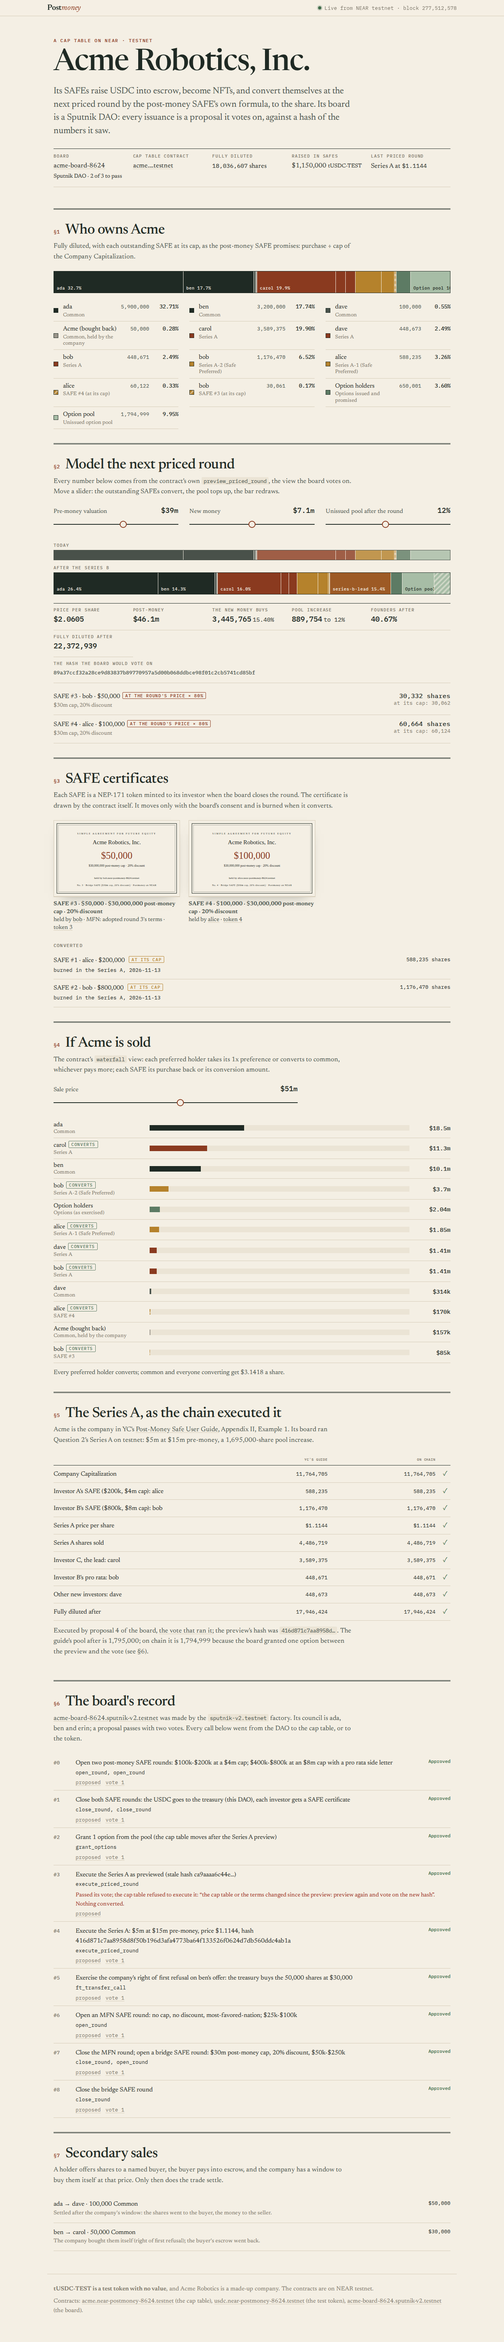
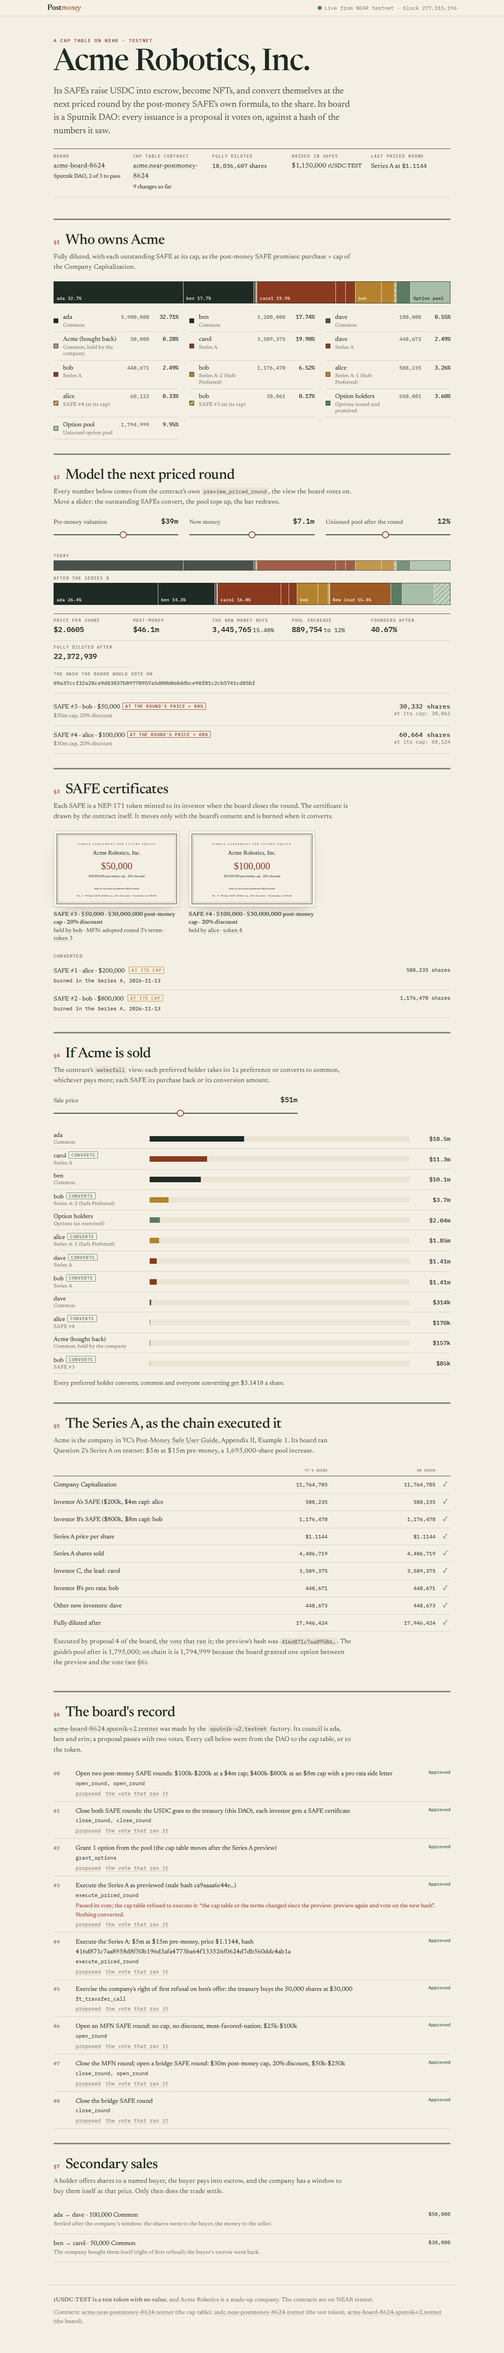
README: judge table as measured (8 checks, 137 s), code replacements on testnet; build-wasm uses host cargo-near when present

diff --git a/web/dist/assets/index-DIPlPk5L.js b/web/dist/assets/index-DIPlPk5L.js
@@ -1,0 +1,1 @@
+(function(){let e=document.createElement(`link`).relList;if(e&&e.supports&&e.supports(`modulepreload`))return;for(let e of document.querySelectorAll(`link[rel="modulepreload"]`))n(e);new MutationObserver(e=>{for(let t of e)if(t.type===`childList`)for(let e of t.addedNodes)e.tagName===`LINK`&&e.rel===`modulepreload`&&n(e)}).observe(document,{childList:!0,subtree:!0});function t(e){let t={};return e.integrity&&(t.integrity=e.integrity),e.referrerPolicy&&(t.referrerPolicy=e.referrerPolicy),t.credentials=e.crossOrigin===`use-credentials`?`include`:e.crossOrigin===`anonymous`?`omit`:`same-origin`,t}function n(e){if(e.ep)return;e.ep=!0;let n=t(e);fetch(e.href,n)}})();var e=class extends Error{},t=10000n,n=(e,t)=>{for(e=e<0n?-e:e,t=t<0n?-t:t;t;)[e,t]=[t,e%t];return e},r=(t,r=1n)=>{if(r===0n)throw new e(`division by zero`);r<0n&&([t,r]=[-t,-r]);let i=n(t,r)||1n;return{n:t/i,d:r/i}},i=(e,t)=>r(e.n*t.d+t.n*e.d,e.d*t.d),a=(e,t)=>r(e.n*t.d-t.n*e.d,e.d*t.d),o=(e,t)=>r(e.n*t.n,e.d*t.d),s=(e,t)=>r(e.n*t.d,e.d*t.n),c=(e,t)=>{let n=e.n*t.d-t.n*e.d;return n>0n?1:n<0n?-1:0},l=e=>e.n>=0n?e.n/e.d:-((-e.n+e.d-1n)/e.d),u=e=>-l(r(-e.n,e.d)),d=r(0n),f=r(1n);function*p(e){for(let t=0;t<1<<e;t++)yield Array.from({length:e},(e,n)=>(t>>n&1)==1)}var m=(e,t)=>l(i(s(e,r(t)),r(1n,2n)))*t;function h(n,a,o){if(o.price_decimals<0||o.price_decimals>6)throw new e(`price_decimals must be 0 to 6`);if(o.pre_money<=0n)throw new e(`pre-money valuation must be positive`);if(!o.new_money.length||o.new_money.some(e=>e<=0n))throw new e(`a priced round needs new money`);if(`target_bps`in o.pool&&BigInt(o.pool.target_bps)>=t)throw new e(`pool target must be under 100%`);for(let n of a)if(n.purchase<=0n||n.cap!==null&&n.cap<=0n||BigInt(n.discount_bps)>=t)throw new e(`bad SAFE`);if(c(a.filter(e=>e.cap!==null).reduce((e,t)=>i(e,r(t.purchase,t.cap)),d),f)>=0)throw new e(`SAFEs at their caps would own 100% or more`);let s=n.outstanding+n.options+n.pool;if(s===0n||s===n.pool)throw new e(`no shares outstanding`);return s}function g(n,l,u,m){let h=r(m.pre_money),g=r(m.pre_money+m.new_money.reduce((e,t)=>e+t,0n)),_=[];for(let e of p(u.length)){if(u.some((t,n)=>t.cap===null&&!e[n]))continue;let p=d,v=d;u.forEach((n,a)=>{e[a]?v=i(v,r(n.purchase*t,t-BigInt(n.discount_bps))):p=i(p,r(n.purchase,n.cap))});let y=e=>{let[i,c,u]=[a(f,p),r(-v.n,v.d),r(n)],[d,m,_]=`increase`in e?[f,r(-h.n,h.d),r(-e.increase)]:[f,a(o(r(BigInt(e.target_bps),t),g),h),r(l.pool)],y=a(o(i,m),o(d,c));return y.n===0n?null:{K:s(a(o(u,m),o(_,c)),y),y:s(a(o(i,_),o(d,u)),y)}},b=y(m.pool);if(b&&`target_bps`in m.pool&&c(b.y,d)>0&&c(a(o(o(r(BigInt(m.pool.target_bps),t),g),b.y),r(l.pool)),d)<0&&(b=y({increase:0n})),!b||c(b.y,d)<=0)continue;let{K:x,y:S}=b;u.every((n,i)=>{if(n.cap===null)return!0;let a=o(x,r(n.purchase,n.cap)),s=o(S,r(n.purchase*t,t-BigInt(n.discount_bps)));return e[i]?c(s,a)>0:c(a,s)>=0})&&_.push(s(f,S))}if(!_.length)throw new e(`pre-money too low to convert these SAFEs`);if(_.some(e=>c(e,_[0])!==0))throw new e(`ambiguous: several exact solutions`);return _[0]}function _(n,o,c){let u=o.map(e=>e.purchase*t/(c*(t-BigInt(e.discount_bps)))),m=[];for(let e of p(o.length)){if(o.some((t,n)=>t.cap===null&&!e[n]))continue;let t=n,c=d;o.forEach((n,a)=>{e[a]?t+=u[a]:c=i(c,r(n.purchase,n.cap))});let p=l(s(r(t),a(f,c))),h=[],g=!0;o.forEach((t,n)=>{let r=t.cap===null?0n:p*t.purchase/t.cap;e[n]?(t.cap!==null&&!(u[n]>r)&&(g=!1),h.push({shares:u[n],basis:`price`,other_basis_shares:r})):(r<u[n]&&(g=!1),h.push({shares:r,basis:`cap`,other_basis_shares:u[n]}))}),g&&m.push({K:p,rows:h})}if(!m.length)throw new e(`no consistent conversion at this price`);if(m.length>1)throw new e(`ambiguous: several consistent conversions at this price`);return{...m[0],total:m[0].rows.reduce((e,t)=>e+t.shares,0n)}}function v(n,i,l){let p=h(n,i,l),v=g(p,n,i,l),y=m(v,10n**BigInt(6-l.price_decimals));if(y<=0n)throw new e(`price rounds to zero`);let{K:b,rows:x,total:S}=_(p,i,y),C=l.new_money.reduce((e,t)=>e+t,0n)/y,w=l.new_money.map(e=>e/y);w[w.length-1]=C-w.slice(0,-1).reduce((e,t)=>e+t,0n);let T;if(`increase`in l.pool)T=l.pool.increase;else{let e=r(BigInt(l.pool.target_bps),t),i=s(a(o(e,r(p+S+C)),r(n.pool)),a(f,e));T=c(i,d)>0?u(i):0n}let E=p+S+T;return{price:y,exact_price:v,company_capitalization:b,safes:x,safe_shares:S,pool_increase:T,pool_after:n.pool+T,new_shares:w,new_shares_total:C,pre_money_shares:E,post_money_shares:E+C}}function y(e,t,n,o){let c=t,u=d,p=0n;n.forEach((e,t)=>{`preferred`in e?o[t]?c+=e.preferred.shares:p+=e.preferred.preference:o[t]?u=i(u,r(e.safe.purchase,e.safe.cap)):p+=e.safe.purchase});let m=l(s(r(c),a(f,u))),h=n.map((e,t)=>o[t]?`preferred`in e?e.preferred.shares:m*e.safe.purchase/e.safe.cap:0n),g=t+h.reduce((e,t)=>e+t,0n),_=e=>`preferred`in e?e.preferred.preference:e.safe.purchase;if(e<=p)return{shares:h,total:g,pay:n.map((t,n)=>o[n]?0n:e*_(t)/p),common_pay:0n};let v=e-p;return{shares:h,total:g,pay:n.map((e,t)=>o[t]?v*h[t]/g:_(e)),common_pay:v*t/g}}function b(t,n,r){let i=e=>`preferred`in e||e.safe.cap!==null,a=[];for(let e of p(r.length))r.some((t,n)=>e[n]&&!i(t))||r.every((a,o)=>{if(!i(a))return!0;let s=y(t,n,r,e.map((e,t)=>t===o||e)).pay[o],c=y(t,n,r,e.map((e,t)=>t!==o&&e)).pay[o];return e[o]===s>c})&&a.push(e);if(a.length!==1)throw new e(a.length?`ambiguous: several equilibria`:`no equilibrium`);let o=y(t,n,r,a[0]);return{claims:r.map((e,t)=>({converts:a[0][t],shares:o.shares[t],payout:o.pay[t]})),common_payout:o.common_pay,as_converted_shares:o.total}}var x=`acme.near-postmoney-8624.testnet`,S=`acme-board-8624.sputnik-v2.testnet`,C=`usdc.near-postmoney-8624.testnet`,w=`https://testnet.nearblocks.io`,T=[`https://test.rpc.fastnear.com`,`https://near-testnet.drpc.org`],E=0;function ee(e){return btoa(String.fromCharCode(...new TextEncoder().encode(e)))}var D=class extends Error{};async function O(e,t,n={},r=8e3){let i;for(let a=0;a<T.length*2;a++){let o=T[(E+a)%T.length];try{let i=await fetch(o,{method:`POST`,headers:{"Content-Type":`application/json`},signal:AbortSignal.timeout(r),body:JSON.stringify({jsonrpc:`2.0`,id:1,method:`query`,params:{request_type:`call_function`,finality:`optimistic`,account_id:e,method_name:t,args_base64:ee(JSON.stringify(n))}})});if(i.status===429||i.status>=500)throw Error(`HTTP ${i.status}`);let s=await i.json(),c=s.error?JSON.stringify(s.error):s.result?.error;if(c){let e=String(c).match(/Smart contract panicked: ([^"\\]+)/)?.[1];throw e?new D(e):Error(String(c).slice(0,200))}return E=(E+a)%T.length,JSON.parse(new TextDecoder().decode(new Uint8Array(s.result.result)))}catch(e){if(e instanceof D)throw e;i=e}}throw i}async function te(){for(let e of T)try{return(await(await fetch(e,{method:`POST`,headers:{"Content-Type":`application/json`},signal:AbortSignal.timeout(6e3),body:JSON.stringify({jsonrpc:`2.0`,id:1,method:`block`,params:{finality:`final`}})})).json()).result.header.height}catch{}throw Error(`no RPC answered`)}var k=e=>`${w}/txns/${e}`,A=e=>`${w}/address/${e}`,j=1000000n,ne=new Intl.NumberFormat(`en-US`),M=e=>ne.format(BigInt(e));function N(e){let t=BigInt(e),n=t/j,r=t%j/10000n;return`$${ne.format(n)}${r?`.${r.toString().padStart(2,`0`)}`:``}`}function P(e){let t=Number(BigInt(e)/j);return t>=1e9?`$${+(t/1e9).toFixed(2)}bn`:t>=1e6?`$${+(t/1e6).toFixed(t>=1e7?1:2)}m`:t>=1e3?`$${+(t/1e3).toFixed(0)}k`:`$${t}`}var F=e=>`$${(Number(BigInt(e))/1e6).toFixed(4)}`,I=(e,t,n=2)=>t===0n?`0%`:`${(Number(e*10n**8n/t)/1e6).toFixed(n)}%`,L=e=>e.split(`.`)[0],R=e=>e.replace(/[&<>"']/g,e=>({"&":`&amp;`,"<":`&lt;`,">":`&gt;`,'"':`&quot;`,"'":`&#39;`})[e]),re={source:`Y Combinator, "Post-Money Safe User Guide" (the "SAFE User Guide" PDF at https://www.ycombinator.com/documents), Appendix II, Example 1 (post-money safes only), Questions 2-5. Money is in micro-dollars; shares are whole shares.`,note:`Investor B's pro rata purchases are entered as the dollar amounts the guide states ($499,998.97 and $226,599.36); 'other new investors' are the residual line. The guide's dollar payouts in Questions 3 and 4 use a per-share price rounded to $0.0001; our payouts are exact, so only the share counts and the convert-or-cash-out choices are compared there.`,cap:{outstanding:`9250000`,options:`650000`,pool:`100000`},safes:[{who:`Investor A`,purchase:`200000000000`,cap:`4000000000000`,discount_bps:0},{who:`Investor B`,purchase:`800000000000`,cap:`8000000000000`,discount_bps:0}],conversions:[{id:`Q2 Series A: $5m at $15m pre, pool +1,695,000`,terms:{pre_money:`15000000000000`,new_money:[`4000000000000`,`499998970000`,`500001030000`],pool:{increase:`1695000`},price_decimals:4},expect:{price:`1114400`,company_capitalization:`11764705`,safe_shares:[`588235`,`1176470`],safe_basis:[`cap`,`cap`],new_shares:[`3589375`,`448671`,`448673`],new_shares_total:`4486719`,pool_after:`1795000`,post_money_shares:`17946424`}},{id:`Q5 Series Seed: $2.2m at $8.8m pre, pool +1,573,000`,terms:{pre_money:`8800000000000`,new_money:[`1650000000000`,`226599360000`,`323400640000`],pool:{increase:`1573000`},price_decimals:4},expect:{price:`657700`,company_capitalization:`11806694`,safe_shares:[`590334`,`1216360`],safe_basis:[`cap`,`price`],new_shares:[`2508742`,`344533`,`491715`],new_shares_total:`3344990`,pool_after:`1673000`,post_money_shares:`16724684`}}],liquidity:{common:`9550000`,common_note:`Founders 9,250,000 + options outstanding 300,000; the guide sets promised options to 0 here and excludes the unissued pool.`,events:[{id:`Q3 acquired for $10m`,exit:`10000000000000`,expect:{converts:[!0,!0],shares:[`561764`,`1123529`],as_converted_shares:`11235293`}},{id:`Q4 acquired for $3m`,exit:`3000000000000`,expect:{converts:[!1,!1],payouts:[`200000000000`,`800000000000`],common_payout:`2000000000000`}}]}},z=e=>document.getElementById(e),B,V=!1,H=null;async function ie(){let[e,t,n,r,i,a,o]=await Promise.all([O(x,`cap_table`),O(x,`rounds`),O(x,`offers`),O(x,`priced_rounds`),O(S,`get_proposals`,{from_index:0,limit:100}),O(C,`ft_balance_of`,{account_id:S}),te()]);return{cap_table:e,rounds:t,offers:n,priced_rounds:r,proposals:i,treasury_usdc:a,certificates:await Promise.all(e.certificates.map(e=>O(x,`nft_token`,{token_id:e.token_id}))),block:o}}function ae(){let e=z(`status`);e.className=`status ${V?`live`:`snapshot`}`,e.querySelector(`.status-text`).textContent=V?`Live from NEAR testnet · block ${B.block?.toLocaleString(`en-US`)}`:`Recorded snapshot of testnet, ${new Date(B.recorded_at).toUTCString().replace(/:\d\d GMT/,` UTC`)} (testnet didn't answer)`}var oe=[`ada`,`ben`];function U(e){return e.label.startsWith(`SAFE #`)?`safe`:e.label.includes(`Safe Preferred`)?`safepref`:e.label.startsWith(`Options`)?`options`:e.label.startsWith(`Unissued`)?`pool`:e.label===`Pool increase`?`poolnew`:e.label===`Series B`?`seriesb`:e.label===`Common`?e.holder===`acme-board-8624.sputnik-v2.testnet`?`treasury`:oe.includes(L(e.holder))?`common`:`common2`:`seriesa`}var se=[`common`,`common2`,`treasury`,`seriesa`,`safepref`,`seriesb`,`safe`,`options`,`pool`,`poolnew`],W=e=>e===`acme-board-8624.sputnik-v2.testnet`?`Acme (bought back)`:e===`series-b-lead.testnet`?`New lead`:e===`options`?`Option holders`:e===`pool`?`Option pool`:L(e),G=e=>e.label===`Common`&&e.holder===`acme-board-8624.sputnik-v2.testnet`?`Common, held by the company`:e.label;function K(e){return[...e].sort((e,t)=>se.indexOf(U(e))-se.indexOf(U(t))||Number(BigInt(t.shares)-BigInt(e.shares)))}function q(e,t,n){let r=K(t).filter(e=>BigInt(e.shares)>0n),i=r.map(e=>`${e.holder}|${e.label}`),a=new Map;e.querySelectorAll(`.seg`).forEach(e=>a.set(e.dataset.key,e));let o=[];r.forEach((t,r)=>{let s=a.get(i[r]);s||(s=document.createElement(`div`),s.className=`seg k-${U(t)}`,s.dataset.key=i[r],s.style.flexBasis=`0%`),a.delete(i[r]);let c=Number(BigInt(t.shares)*1000000n/n)/1e4;s.dataset.tip=`${W(t.holder)} · ${G(t)}\n${M(t.shares)} shares · ${c.toFixed(2)}%`;let l=e.clientWidth*c/100,u=`${W(t.holder)} ${c.toFixed(1)}%`,d=l>u.length*7+14?u:l>W(t.holder).length*7+12?W(t.holder):``;s.innerHTML=d?`<span>${R(d)}</span>`:``,o.push(s)}),a.forEach(e=>e.remove()),e.replaceChildren(...o),requestAnimationFrame(()=>{r.forEach((e,t)=>{o[t].style.flexBasis=`${(Number(BigInt(e.shares)*1000000n/n)/1e4).toFixed(4)}%`})})}function ce(e,t,n){e.innerHTML=K(t).map(e=>`<div class="row"><i class="sw k-${U(e)}"></i><span class="who">${R(W(e.holder))}<small>${R(G(e))}</small></span><span class="num">${M(e.shares)}</span><span class="pc">${I(BigInt(e.shares),n)}</span></div>`).join(``)}var J=e=>e.reduce((e,t)=>e+BigInt(t.shares),0n);function le(){let e=B.cap_table.as_converted,t=J(e);q(z(`bar-now`),e,t),ce(z(`legend-now`),e,t);let n=B.rounds.filter(e=>e.status===`Closed`).reduce((e,t)=>e+BigInt(t.raised),0n),r=B.priced_rounds.at(-1),i=[[`Board`,`<a href="${A(S)}">${R(S.split(`.`)[0])}</a><br><small>Sputnik DAO, 2 of 3 to pass</small>`],[`Cap table contract`,`<a href="${A(x)}">${R(x.replace(`.testnet`,``))}</a><br><small>${M(B.cap_table.version)} changes so far</small>`],[`Fully diluted`,`<span class="num">${M(t)}</span> shares`],[`Raised in SAFEs`,`${N(n)} <small>tUSDC-TEST</small>`],[`Last priced round`,r?`${R(r.name)} at <span class="num">${F(r.price)}</span>`:`none yet`]];z(`facts`).innerHTML=i.map(([e,t])=>`<div><dt>${e}</dt><dd>${t}</dd></div>`).join(``)}var Y=(e,t,n)=>t*(n/t)**(e/1e3);function X(e){let t=10**(Math.floor(Math.log10(e))-1);return Math.round(e/t)*t}var ue=`series-b-lead.testnet`,Z=0;function de(){let e=X(Y(+z(`i-pre`).value,5e6,2e8)),t=X(Y(+z(`i-new`).value,1e6,5e7)),n=+z(`i-pool`).value;return z(`o-pre`).textContent=P(BigInt(e)*1000000n),z(`o-new`).textContent=P(BigInt(t)*1000000n),z(`o-pool`).textContent=`${n}%`,{pre:BigInt(e)*1000000n,nw:BigInt(t)*1000000n,pool:n}}async function fe(t,n,r){let i={name:`Series B`,pre_money:t.toString(),investors:[{account:ue,cash:n.toString()}],pool:r>0?{target_bps:r*100}:{increase:`0`},price_decimals:4};if(V)return O(x,`preview_priced_round`,{terms:i});let a=B.cap_table,o={outstanding:a.positions.reduce((e,t)=>e+BigInt(t.shares),0n),options:BigInt(a.options),pool:BigInt(a.pool)},s=a.certificates.map(e=>({purchase:BigInt(e.purchase),cap:e.terms.cap?BigInt(e.terms.cap):null,discount_bps:e.terms.discount_bps}));try{let e=v(o,s,{pre_money:t,new_money:[n],pool:r>0?{target_bps:r*100}:{increase:0n},price_decimals:4});return{price:`${e.price}`,state_hash:``,conversion:{company_capitalization:`${e.company_capitalization}`,pool_increase:`${e.pool_increase}`,pool_after:`${e.pool_after}`,new_shares_total:`${e.new_shares_total}`,post_money_shares:`${e.post_money_shares}`},safes:a.certificates.map((t,n)=>({token_id:t.token_id,owner:t.owner,purchase:t.purchase,discount_bps:t.terms.discount_bps,shares:`${e.safes[n].shares}`,basis:e.safes[n].basis,other_basis_shares:`${e.safes[n].other_basis_shares}`})),investors:[{account:ue,cash:n.toString(),shares:`${e.new_shares[0]}`}]}}catch(t){throw t instanceof e?new D(t.message):t}}async function Q(){let{pre:e,nw:t,pool:n}=de(),r=++Z;z(`readout`).classList.add(`busy`);let i;try{i=await fe(e,t,n)}catch(e){if(r!==Z)return;z(`readout`).className=`readout err`,z(`readout`).textContent=e instanceof D?`The contract refuses these terms: ${e.message}.`:`Couldn't reach testnet: ${e.message}`,z(`conversions`).innerHTML=``;return}if(r!==Z)return;let a=B.cap_table,o=a.as_converted.filter(e=>!e.label.startsWith(`SAFE #`)&&!e.label.startsWith(`Unissued`));o.push({holder:`pool`,label:`Unissued option pool`,shares:a.pool}),BigInt(i.conversion.pool_increase)>0n&&o.push({holder:`pool`,label:`Pool increase`,shares:i.conversion.pool_increase});for(let e of i.safes)o.push({holder:e.owner,label:e.basis===`cap`||e.discount_bps>0?`Series B-${e.token_id} (Safe Preferred)`:`Series B`,shares:e.shares});for(let e of i.investors)o.push({holder:e.account,label:`Series B`,shares:e.shares});let s=J(o);q(z(`bar-before`),a.as_converted,J(a.as_converted)),q(z(`bar-after`),o,s);let c=I(BigInt(i.investors[0].shares),s),l=o.filter(e=>U(e)===`common`).reduce((e,t)=>e+BigInt(t.shares),0n),u=[[`Price per share`,F(i.price)],[`Post-money`,P(e+t)],[`The new money buys`,`${M(i.investors[0].shares)}`,c],[`Pool increase`,M(i.conversion.pool_increase),`to ${n}%`],[`Founders after`,I(l,s)],[`Fully diluted after`,M(i.conversion.post_money_shares)]];z(`readout`).className=`readout`,z(`readout`).innerHTML=u.map(([e,t,n])=>`<div><b>${e}</b><span>${t}</span>${n?` <small class="num">${n}</small>`:``}</div>`).join(``)+(V?`<div style="grid-column:1/-1"><b>The hash the board would vote on</b><span class="hash">${i.state_hash}</span></div>`:`<div style="grid-column:1/-1"><b>Offline</b><span class="hash">computed in your browser by the reference implementation (ref/reference.ts), not the contract</span></div>`),z(`conversions`).innerHTML=i.safes.map(e=>{let t=a.certificates.find(t=>t.token_id===e.token_id),n=[t?.terms.cap?`${P(t.terms.cap)} cap`:`no cap`,t?.terms.discount_bps?`${t.terms.discount_bps/100}% discount`:``].filter(Boolean).join(`, `),r=e.basis===`cap`?`<span class="tag cap">at its cap</span>`:`<span class="tag price">at the round's price${e.discount_bps?` × ${100-e.discount_bps/100}%`:``}</span>`,i=e.basis===`cap`?`at the round's price: ${M(e.other_basis_shares)}`:BigInt(e.other_basis_shares)>0n?`at its cap: ${M(e.other_basis_shares)}`:``;return`<div class="conv"><div class="what">SAFE #${R(e.token_id)} · ${R(L(e.owner))} · ${N(e.purchase)}${r}<small>${R(n)}</small></div><div class="got">${M(e.shares)} shares<small>${R(i)}</small></div></div>`}).join(``)}function pe(){z(`cert-grid`).innerHTML=B.certificates.length?B.certificates.map(e=>{let t=JSON.parse(e.metadata.extra),n=t.amended_from_round===null?``:` · MFN: adopted round ${t.round}'s terms`;return`<figure class="cert"><img src="${e.metadata.media}" alt="${R(e.metadata.title)}" loading="lazy" /><figcaption><b>${R(e.metadata.title)}</b><br>held by <a href="${A(e.owner_id)}">${R(L(e.owner_id))}</a>${R(n)} · <a href="${w}/nft/${x}/${e.token_id}">token ${R(e.token_id)}</a></figcaption></figure>`}).join(``):`<p class="note">No SAFE is outstanding.</p>`;let e=[];for(let t of B.priced_rounds){let n=JSON.parse(t.preview);for(let r of n.safes)e.push(`<div class="converted-row"><span>SAFE #${R(r.token_id)} · ${R(L(r.owner))} · ${N(r.purchase)} <span class="tag ${r.basis}">${r.basis===`cap`?`at its cap`:`at the round's price`}</span><br><small class="num">burned in the ${R(t.name)}, ${new Date(Number(t.executed)*1e3).toISOString().slice(0,10)}</small></span><span class="num">${M(r.shares)} shares</span></div>`)}z(`converted`).innerHTML=e.join(``)||`<p class="note">None yet.</p>`}var $=0;async function me(e){if(V)return O(x,`waterfall`,{exit:e.toString()});let t=B.cap_table,n=[],r=[];for(let e of t.certificates)n.push({safe:{purchase:BigInt(e.purchase),cap:e.terms.cap?BigInt(e.terms.cap):null}}),r.push([e.owner,`SAFE #${e.token_id}`]);let i=[];for(let e of t.positions)t.classes[e.class].preferred?(n.push({preferred:{shares:BigInt(e.shares),preference:BigInt(e.preference)}}),r.push([e.holder,t.classes[e.class].name])):i.push(e);let a=i.reduce((e,t)=>e+BigInt(t.shares),0n)+BigInt(t.options),o=b(e,a,n),s=r.map(([e,t],n)=>({holder:e,label:t,converts:o.claims[n].converts,shares:`${o.claims[n].shares}`,payout:`${o.claims[n].payout}`}));for(let e of i)s.push({holder:e.holder,label:`Common`,converts:!0,shares:e.shares,payout:`${o.common_payout*BigInt(e.shares)/a}`});return BigInt(t.options)>0n&&s.push({holder:`options`,label:`Options (as exercised)`,converts:!0,shares:t.options,payout:`${o.common_payout*BigInt(t.options)/a}`}),{exit:e.toString(),lines:s}}async function he(){let e=BigInt(X(Y(+z(`i-exit`).value,2e6,1e9)))*1000000n;z(`o-exit`).textContent=P(e);let t=++$,n;try{n=await me(e)}catch(e){t===$&&(z(`waterfall`).innerHTML=`<p class="note">${R(String(e.message))}</p>`);return}if(t!==$)return;let r=[...n.lines].sort((e,t)=>Number(BigInt(t.payout)-BigInt(e.payout))),i=r.filter(e=>!e.converts),a=i.reduce((e,t)=>e+BigInt(t.payout),0n),o=r.filter(e=>e.label===`Common`||e.label.startsWith(`Options`)),s=o.length?BigInt(o[0].payout)*1000000n/BigInt(o[0].shares):0n;z(`waterfall`).innerHTML=r.map(t=>{let n=U({holder:t.holder,label:t.label.startsWith(`Options`)?`Options`:t.label}),r=t.label===`Common`||t.label.startsWith(`Options`)?``:t.converts?`<span class="tag conv">converts</span>`:`<span class="tag pref">1x preference</span>`,i=Number(BigInt(t.payout)*100000n/e)/1e3;return`<div class="wf"><div class="who">${R(W(t.holder))}${r}<small>${R(t.label===`Common`&&t.holder===`acme-board-8624.sputnik-v2.testnet`?`Common, held by the company`:t.label)}</small></div><div class="track"><div class="fill k-${n}" style="width:${i}%"></div></div><div class="amt">${P(t.payout)}</div></div>`}).join(``)+`<p class="wf-summary">${i.length?`${i.length} holder${i.length>1?`s`:``} take their 1x preference (${P(a)} in all); `:`Every preferred holder converts; `}common and everyone converting get ${F(s/1000000n||0n)} a share.</p>`}function ge(){let e=B.priced_rounds.find(e=>e.name===`Series A`);if(!e){z(`compare`).innerHTML=`<p class="note">Not executed yet.</p>`;return}let t=JSON.parse(e.preview),n=re.conversions[0].expect,r=e=>t.investors.find(t=>L(t.account)===e)?.shares,i=[[`Company Capitalization`,M(n.company_capitalization),M(t.conversion.company_capitalization),n.company_capitalization===t.conversion.company_capitalization],[`Investor A's SAFE ($200k, $4m cap): alice`,M(n.safe_shares[0]),M(t.safes[0].shares),n.safe_shares[0]===t.safes[0].shares],[`Investor B's SAFE ($800k, $8m cap): bob`,M(n.safe_shares[1]),M(t.safes[1].shares),n.safe_shares[1]===t.safes[1].shares],[`Series A price per share`,F(n.price),F(t.price),n.price===t.price],[`Series A shares sold`,M(n.new_shares_total),M(t.conversion.new_shares_total),n.new_shares_total===t.conversion.new_shares_total],[`Investor C, the lead: carol`,M(n.new_shares[0]),M(r(`carol`)),n.new_shares[0]===r(`carol`)],[`Investor B's pro rata: bob`,M(n.new_shares[1]),M(r(`bob`)),n.new_shares[1]===r(`bob`)],[`Other new investors: dave`,M(n.new_shares[2]),M(r(`dave`)),n.new_shares[2]===r(`dave`)],[`Fully diluted after`,M(n.post_money_shares),M(t.conversion.post_money_shares),n.post_money_shares===t.conversion.post_money_shares]],a=H?.steps?.find(e=>typeof e.what==`string`&&e.what.includes(`votes: proposal 4`))?.tx;z(`compare`).innerHTML=`<div class="row head"><span></span><span class="num">YC's guide</span><span class="num">On chain</span><span></span></div>`+i.map(([e,t,n,r])=>`<div class="row"><span>${R(e)}</span><span class="num">${t}</span><span class="num">${n}</span><span class="${r?`ok`:`no`}">${r?`✓`:`✗`}</span></div>`).join(``)+`<p class="note" style="margin-top:14px">Executed by proposal 4 of the board${a?`, <a href="${k(a)}">the vote that ran it</a>`:``}; the preview's hash was <code>${R(e.state_hash.slice(0,16))}…</code>. The guide's pool after is 1,795,000; on chain it is ${M(t.conversion.pool_after)} because the board granted one option between the preview and the vote (see §6).</p>`}function _e(){let e=H?.staleDone;z(`board-note`).innerHTML=`<a href="${A(S)}">${R(S)}</a> was made by the <code>sputnik-v2.testnet</code> factory. Its council is ada, ben and erin; a proposal passes with two votes. Every call below went from the DAO to the cap table, or to the token.`;let t=e=>H?.steps?.filter(t=>t.proposal===e&&t.tx).map(e=>e.tx)??[];z(`proposals`).innerHTML=B.proposals.map(n=>{let r=n.kind.FunctionCall?.actions.map(e=>e.method_name).join(`, `)??Object.keys(n.kind)[0],i=t(n.id),a=e&&e.proposal===n.id?`<div class="refused">Passed its vote; the cap table refused to execute it: “${R(e.refusal)}”. Nothing converted.</div>`:``;return`<li><span class="pid">#${n.id}</span><span>${R(n.description)}<br><small class="num">${R(r)}</small></span><span class="st ${n.status}">${n.status}</span>${a}${i.length?`<div class="links">${i.map((e,t)=>`<a href="${k(e)}">${t===0?`proposed`:`the vote that ran it`}</a>`).join(``)}</div>`:``}</li>`}).join(``)}function ve(){let e=B.cap_table;z(`offers`).innerHTML=B.offers.length?B.offers.map(t=>{let n={Settled:`Settled after the company's window: the shares went to the buyer, the money to the seller.`,Matched:`The company bought them itself (right of first refusal); the buyer's escrow went back.`,Funded:`Paid into escrow; the company's window is open.`,AwaitingBuyer:`Waiting for the buyer to pay.`,Cancelled:`Withdrawn by the seller.`,Settling:`Settling.`}[t.status]??t.status;return`<div class="offer"><span>${R(L(t.seller))} → ${R(L(t.buyer))} · ${M(t.shares)} ${R(e.classes[t.class].name)}<small>${R(n)}</small></span><span class="num">${N(t.price)}</span></div>`}).join(``):`<p class="note">None yet.</p>`}function ye(){let e=z(`tip`),t=t=>{let n=t.target.closest(`.seg`);if(!n)return e.hidden=!0;e.textContent=n.dataset.tip??``,e.style.whiteSpace=`pre-line`,e.hidden=!1;let r=Math.min(t.clientX+12,window.innerWidth-e.offsetWidth-8);e.style.left=`${Math.max(8,r)}px`,e.style.top=`${t.clientY+16}px`};document.addEventListener(`pointermove`,t),document.addEventListener(`pointerdown`,t),document.addEventListener(`scroll`,()=>e.hidden=!0,{passive:!0})}function be(e,t){let n;return()=>{clearTimeout(n),n=window.setTimeout(e,t)}}async function xe(){H=await fetch(`./run.json`).then(e=>e.ok?e.json():null).catch(()=>null);try{B=await ie(),V=!0}catch{B=await fetch(`./snapshot.json`).then(e=>e.json()),V=!1}ae(),z(`company`).textContent=B.cap_table.company,V||(document.querySelector(`#model .note`).textContent=`Testnet didn't answer, so this model runs in your browser on the recorded cap table, with the independent reference implementation (ref/reference.ts); on 2,500 random rounds it agrees with the contract on every number. Live, these numbers come from the contract's own preview_priced_round.`,document.querySelector(`#exit .note`).textContent=`Testnet didn't answer: this waterfall runs in your browser with the reference implementation on the recorded cap table. Live, it is the contract's waterfall view.`),le(),pe(),ge(),_e(),ve();let e=be(Q,180);for(let t of[`i-pre`,`i-new`,`i-pool`])z(t).addEventListener(`input`,()=>{de(),e()});let t=be(he,150);z(`i-exit`).addEventListener(`input`,()=>{z(`o-exit`).textContent=P(BigInt(X(Y(+z(`i-exit`).value,2e6,1e9)))*1000000n),t()}),await Promise.all([Q(),he()]),ye(),z(`links`).innerHTML=`Contracts: <a href="${A(x)}">${x}</a> (the cap table), <a href="${A(C)}">${C}</a> (the test token), <a href="${A(S)}">${S}</a> (the board).`,document.body.dataset.ready=V?`live`:`snapshot`}xe();

diff --git a/scripts/judge.ts b/scripts/judge.ts
@@ -49,7 +49,7 @@ rows.push({ name: "res/*.wasm match res/SHA256SUMS", status: bad.length ? "FAIL"
 
 const suites: Promise<void>[] = [
   run("Reference: YC's worked examples + invariants on 2,000 random rounds and 2,000 exits", TSX, ["scripts/reference-check.ts"], (o) => `${(o.match(/^✓/gm) ?? []).length} ✓, ${(o.match(/^✗/gm) ?? []).length} ✗; ${last(o, /invariants hold/).replace(/^✓ /, "").slice(0, 70)}…`),
-  run("Kill test on the wasm: contract vs reference, every number (sandbox)", TSX, ["scripts/property.ts"], (o) => last(o, /wasm = reference on \d+ random priced/).replace(/^✓ /, "").replace(/ \(0 disagree.*$/, "") + `; ${last(o, /property checks/)}`),
+  run("Kill test on the wasm: contract vs reference, every number (sandbox)", TSX, ["scripts/property.ts"], (o) => last(o, /wasm = reference on \d+ random priced/).replace(/^✓ /, "").replace(/ \(0 disagree.*$/, "").trim() + `; ${last(o, /property checks/).replace(/ \(\d+ s\)$/, "")}`),
   run("Attack suite: each attack meets its stated refusal (sandbox)", TSX, ["scripts/attacks.ts"], (o) => last(o, /attacks refused/)),
   run("The company's whole life, board = real Sputnik DAO (sandbox)", TSX, ["scripts/sandbox.ts"], (o) => last(o, /sandbox checks/)),
   run(FULL ? "Mutation checks: all 19" : "Mutation checks: 3 of 19 (npm run mutants runs all)", TSX, ["scripts/mutants.ts", ...(FULL ? [] : ["--quick"])], (o) => last(o, /mutants caught/), { PARALLEL: FULL ? "4" : "3" }),

diff --git a/web/dist/index.html b/web/dist/index.html
@@ -9,7 +9,7 @@
     <link rel="preconnect" href="https://fonts.googleapis.com" />
     <link rel="preconnect" href="https://fonts.gstatic.com" crossorigin />
     <link href="https://fonts.googleapis.com/css2?family=Newsreader:ital,opsz,wght@0,6..72,400;0,6..72,500;0,6..72,600;1,6..72,400&family=IBM+Plex+Mono:wght@400;500&display=swap" rel="stylesheet" />
-    <script type="module" crossorigin src="./assets/index-CEH5848r.js"></script>
+    <script type="module" crossorigin src="./assets/index-DIPlPk5L.js"></script>
     <link rel="stylesheet" crossorigin href="./assets/index-DLoJ_2fL.css">
   </head>
   <body>

diff --git a/README.md b/README.md
@@ -36,10 +36,20 @@ git clone https://github.com/toothywalrus/near-postmoney && cd near-postmoney
 npm ci && npm run judge        # Node 22; no keys, no wallet, no Rust. First run downloads the NEAR sandbox node.
 ```
 
-It ends in a pass/fail table:
+It ends in a pass/fail table. Measured on 2026-11-13 on an 8-core Linux laptop shared with other builds (suites run side by side):
 
 ```
-JUDGE_TABLE_PLACEHOLDER
+Check                                                                                Result  Time   Detail
+res/*.wasm match res/SHA256SUMS                                                      PASS    0s     postmoney.wasm, test_usdc.wasm, sputnikdao2-ZGdM2TFd.wasm
+Web page builds (web/dist)                                                           PASS    4s     built: serve web/dist with any static server
+Testnet deployment re-read from chain state                                          PASS    4s     20/20 chain checks passed
+Reference: YC's worked examples + invariants on 2,000 random rounds and 2,000 exits  PASS    7s     7 ✓, 0 ✗; invariants hold on 1883 converted random cases …
+Kill test on the wasm: contract vs reference, every number (sandbox)                 PASS    36s    wasm = reference on 2500 random priced rounds: 2349 converted identically (6869 SAFEs, 893 capped ones at the round's price), 151 refused by both; 6/6 property checks passed
+The company's whole life, board = real Sputnik DAO (sandbox)                         PASS    101s   44/44 sandbox checks passed
+Mutation checks: 3 of 19 (npm run mutants runs all)                                  PASS    104s   3/3 mutants caught
+Attack suite: each attack meets its stated refusal (sandbox)                         PASS    137s   54/54 attacks refused as expected
+
+All 8 checks passed in 137 s.
 ```
 
 [`JUDGES.md`](JUDGES.md) maps every claim to its code, its test and its command.
@@ -60,7 +70,7 @@ before closing. The money meanwhile sits in a bank account, the SAFE is a PDF, a
   the maximum comes back in the same transaction. Closing sends the money to the treasury and mints each investor a
   NEP-171 SAFE certificate (terms in its metadata, an SVG certificate drawn by the contract). A round that misses its
   minimum by the deadline, or that the board cancels, refunds: anyone may trigger anyone's refund, and the money only
-  goes back to the investor who paid; a funded round the board leaves unclosed for as long again as it ran becomes
+  goes to the investor it belongs to; a funded round the board leaves unclosed for as long again as it ran becomes
   refundable too, so the worst case is a refund, never a lock-up. Someone else may pay for an investor
   (`{"invest": round, "for": "investor.near"}`, how 1Click delivers from another chain; decision 0007). Every payout
   has a callback that rolls back a failed transfer.
@@ -136,7 +146,7 @@ MUTANTS_PLACEHOLDER
 
 | Do | See |
 |---|---|
-| `npm ci && npm run judge` | the table above, about MINUTES_PLACEHOLDER |
+| `npm ci && npm run judge` | the table above, about 2.5 minutes (plus `npm ci`) |
 | `npm run reference` | the reference reproduces YC's four questions; invariants on 2,000 random rounds and exits (5 s, no network) |
 | `npm run property` | the contract's wasm reproduces YC's examples and agrees with the reference on 2,500 + 2,500 random cases |
 | `npm run sandbox` | the company's whole life with a real Sputnik DAO as the board, YC's numbers on chain (44 checks, ~85 s) |
@@ -175,6 +185,11 @@ The story (every transaction is in [`deploy/testnet-run.json`](deploy/testnet-ru
 | bob's MFN SAFE #3 adopts the bridge round's terms | [tx](https://testnet.nearblocks.io/txns/FzsMas1Yvfzj6cc1gatky1Ln7orvbEhj4jumwcakhanz) |
 
 NEAR spent: DAO 4.85, cap table 3.82 (code and state), token 0.44, seven people 0.35, gas; 0.59 left on the funder.
+
+The cap table's code was replaced twice while the deployer's key exists, each time with the state carried over (same
+layout): before the story ([tx](https://testnet.nearblocks.io/txns/2GMyrE4v3gVVAT4UsJ9Kv1eswLF8ru2QD6HEoA6kq4A8), MFN
+may adopt any later round) and after it ([tx](https://testnet.nearblocks.io/txns/Ft59rq51BKbTN1P8JSYVb43wSivaNdgHioNxtiLbxzfx),
+decision 0007). `npm run verify` checks that the code running now is `res/postmoney.wasm`.
 
 ## What NEAR does here, concretely
 
